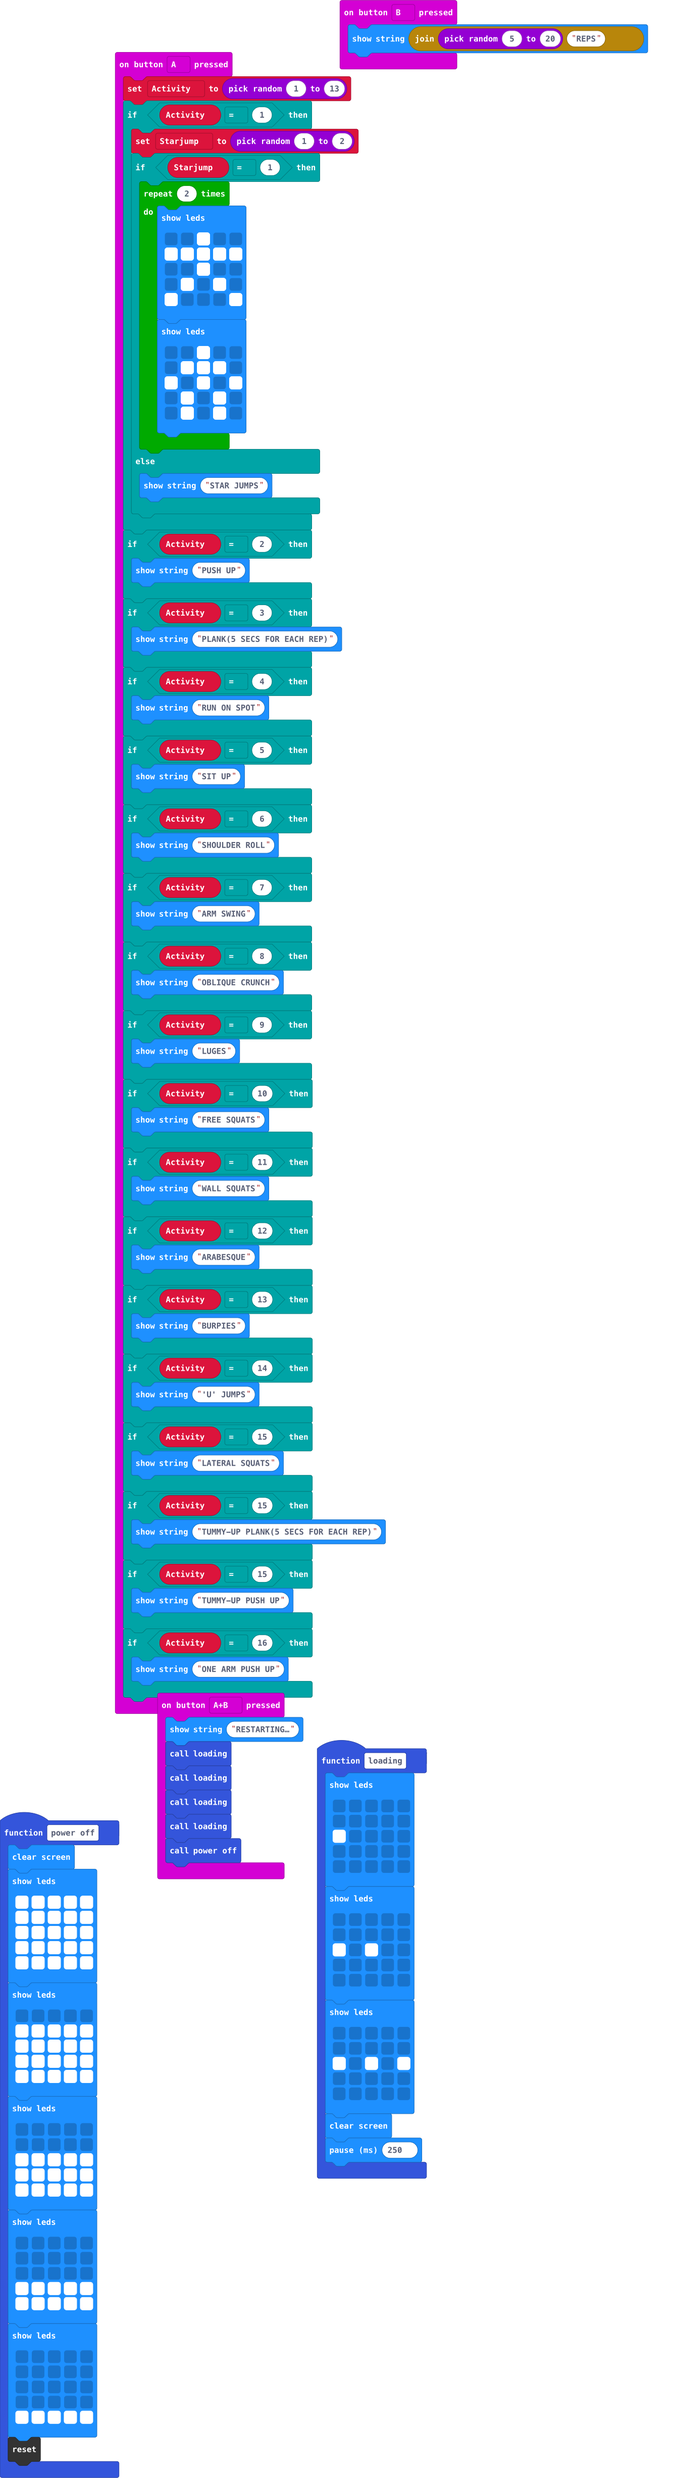
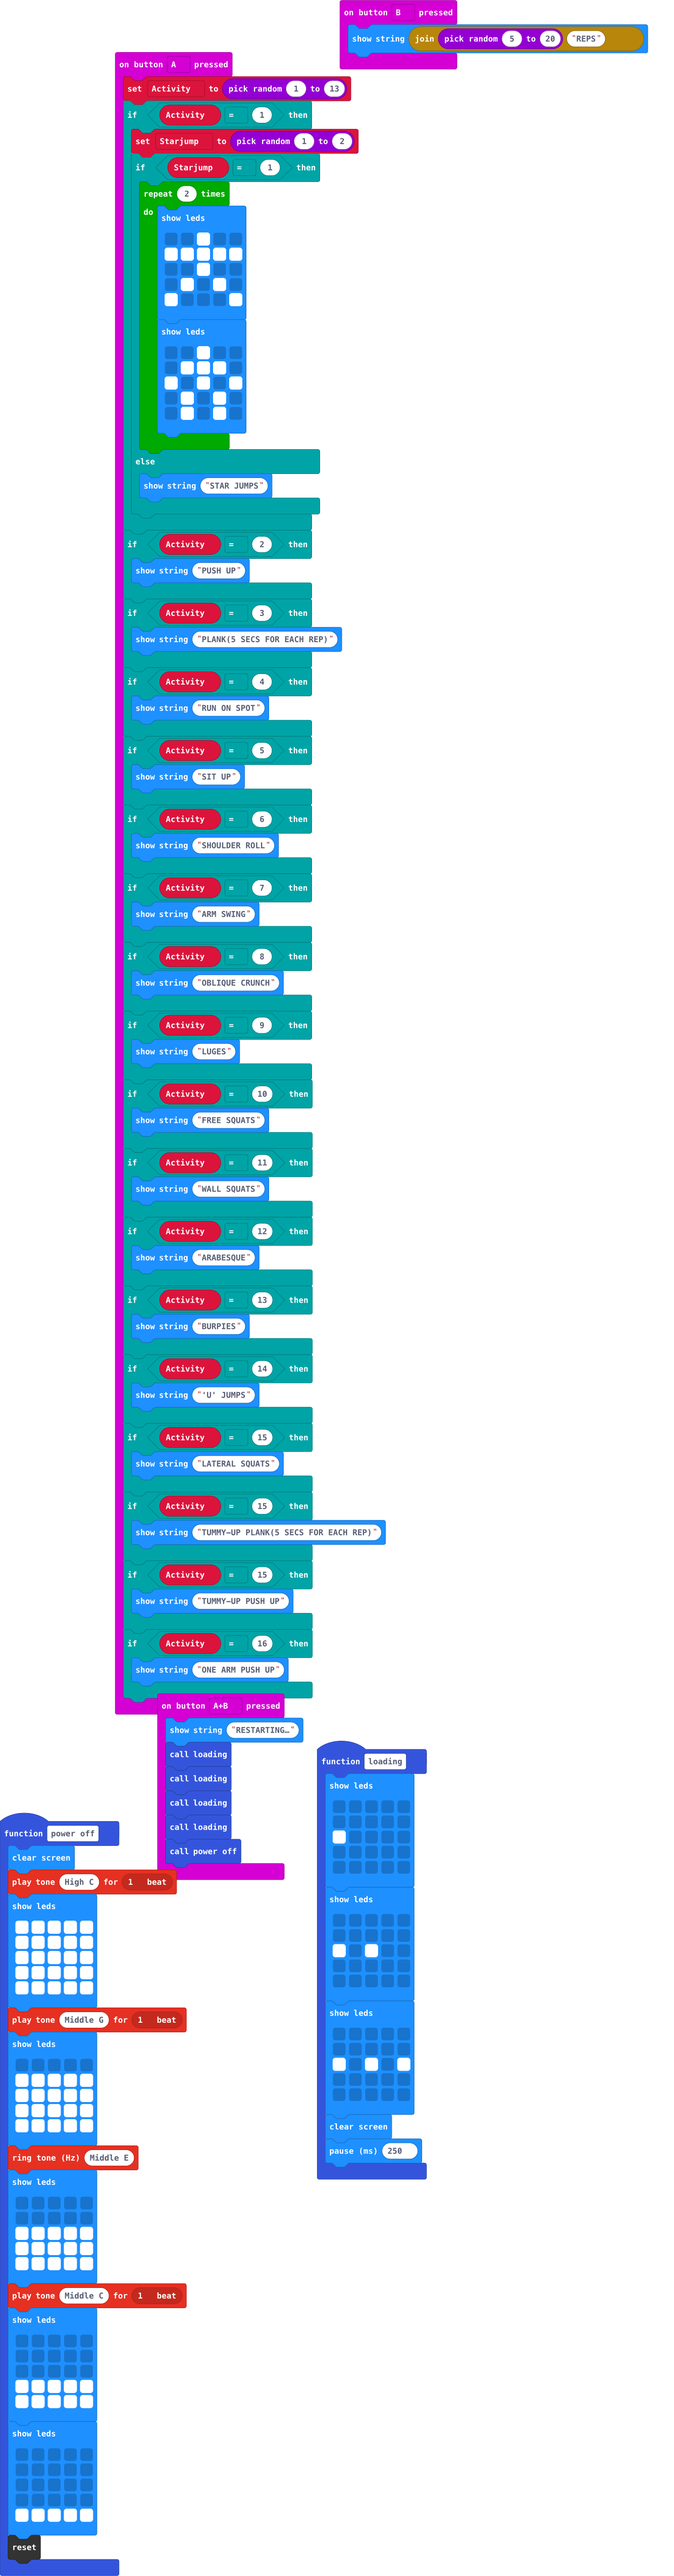
Update main.blocks, main.ts

Changed region(s): [[0.0, 0.0, 0.6449, 0.998], [0.5221, 0.0, 0.9521, 0.0312]]

diff --git a/main.ts b/main.ts
@@ -104,6 +104,7 @@ input.onButtonPressed(Button.A, function () {
 })
 function power_off () {
     basic.clearScreen()
+    music.playTone(523, music.beat(BeatFraction.Whole))
     basic.showLeds(`
         # # # # #
         # # # # #
@@ -111,6 +112,7 @@ function power_off () {
         # # # # #
         # # # # #
         `)
+    music.playTone(392, music.beat(BeatFraction.Whole))
     basic.showLeds(`
         . . . . .
         # # # # #
@@ -118,6 +120,7 @@ function power_off () {
         # # # # #
         # # # # #
         `)
+    music.ringTone(330)
     basic.showLeds(`
         . . . . .
         . . . . .
@@ -125,6 +128,7 @@ function power_off () {
         # # # # #
         # # # # #
         `)
+    music.playTone(262, music.beat(BeatFraction.Whole))
     basic.showLeds(`
         . . . . .
         . . . . .
